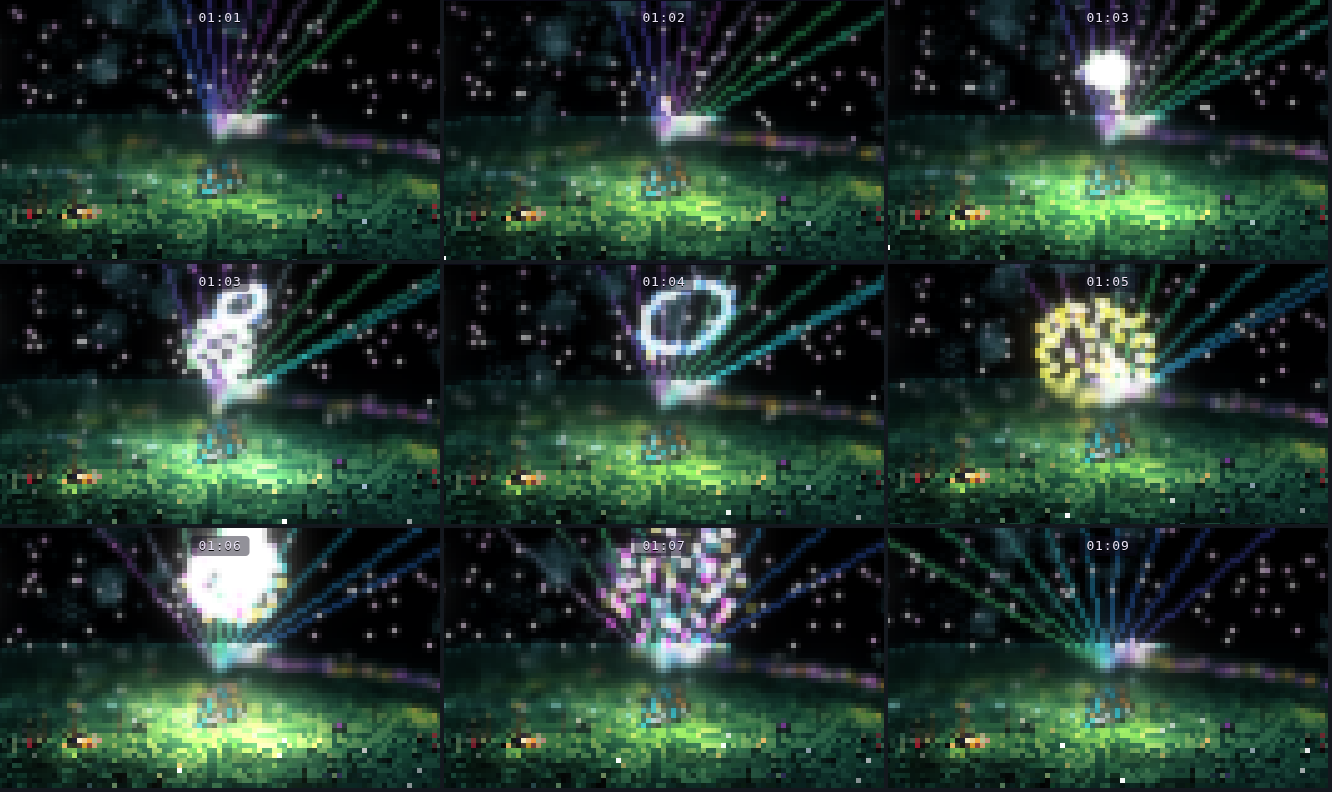
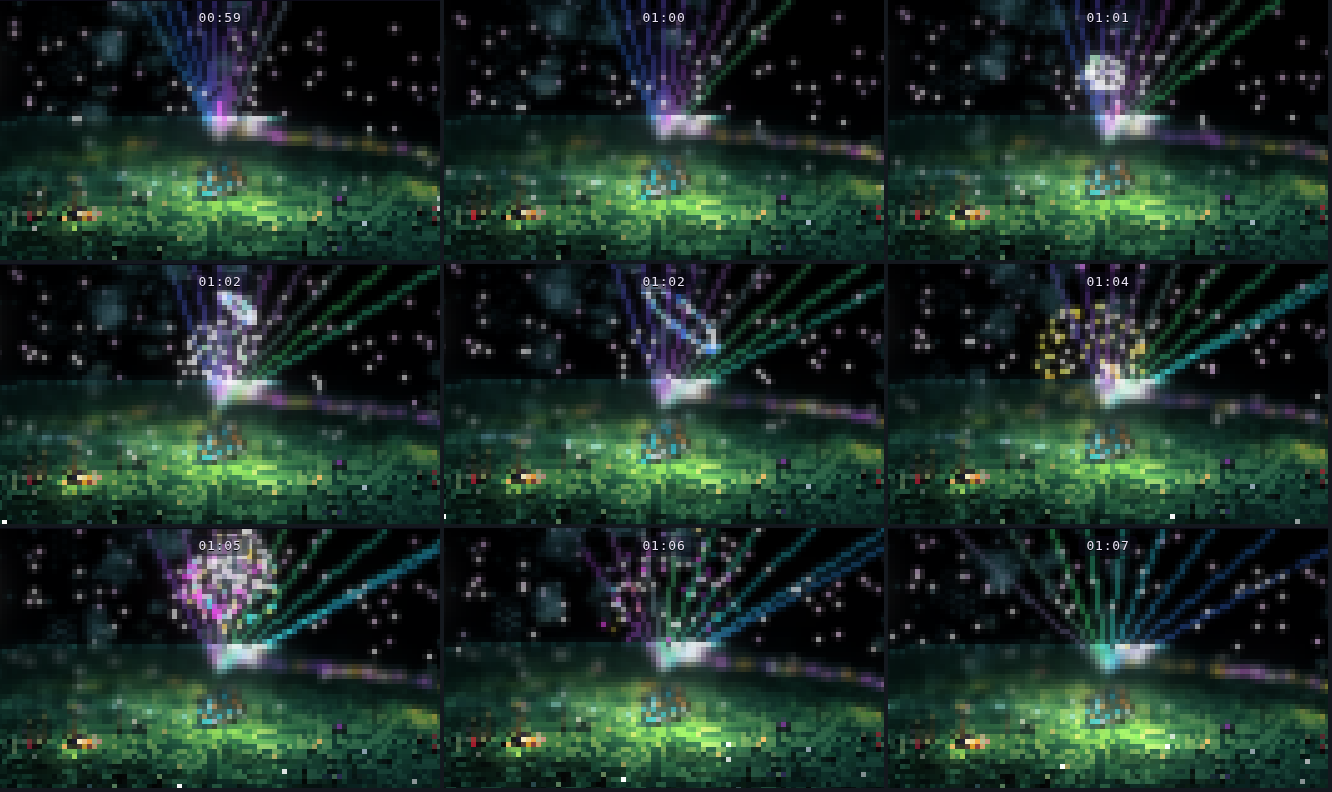
Fireworks: stars one canvas pixel at least (from afar a burst was a solid white disc), a short fade-in at the burst, the finale's a little sparser; ground flashes low; fresh strip; v2137 in the fragment
Claude-Session: https://claude.ai/code/session_01CCJ1G3QaUxYK9jSu9176NM

diff --git a/src/render/fireworks.ts b/src/render/fireworks.ts
@@ -2,7 +2,7 @@
 // rules/fireworks.ts, started by the rules' waveCelebrate). Each shell climbs from the soundsystem's top as a gold spark
 // trailing a few pixels, then bursts: a round peony, a tilted ring, a willow drooping gold, or a crackle of glitter, in the
 // party's neons (some two-colour), each star a short streak of art pixels flashing white, then its colour, fading in steps
-// at the end; seen from far off and from the treetops (never smaller than two screen pixels an art pixel).
+// at the end; seen from far off and from the treetops (never smaller than one of the canvas's pixels).
 // Cheap: a fixed pool on the GPU. A show is written once, when its event comes (every rocket and star with its start, its
 // velocity and its life; the vertex shader flies them, with drag and gravity), and nothing more until the next; a frame
 // does no work and allocates nothing.
@@ -19,7 +19,7 @@ const POOL = 6144, TRAIL = 3, LAG = 0.028;
 /** Where a rocket leaves from (m over the ground: the soundsystem's top). */
 const FROM_Y = 7;
 /** Bursts lighting the ground at once (the latest kept), how long a flash lasts (s), its reach (m) and strength. */
-const FLASHES = 12, FLASH_S = 0.9, FLASH_REACH = 55, FLASH_I = 2.2;
+const FLASHES = 12, FLASH_S = 0.9, FLASH_REACH = 40, FLASH_I = 1.6;
 
 /** The party's neons for a burst (cyan, blue, violet, magenta, pink, gold, green), along a hue 0-1. */
 const NEONS = [[0.3, 1, 1], [0.35, 0.55, 1], [0.7, 0.4, 1], [1, 0.3, 0.9], [1, 0.45, 0.6], [1, 0.82, 0.3], [0.45, 1, 0.5]];
@@ -44,8 +44,9 @@ void main() {
   vec3 p = aFrom.xyz + aVel.xyz * d; p.y -= 0.5 * grav * t * t;
   // Its light: a white flash as it bursts, then its colour; the last third fading in steps; a crackle's glitter flickering.
   vec3 c = aLook.rgb;
-  float a = mode < 0.5 ? 0.8 : 0.8 * (1.0 - floor(max(0.0, k - 0.6) / 0.4 * 3.0) / 3.0);
-  if (mode > 0.5 && k < 0.05) c = mix(mix(c, vec3(1.0), 0.55), c, k / 0.05); // (a touch of white as it bursts: the finale's many together never blow out)
+  float a = mode < 0.5 ? 0.8 : 1.0 * (1.0 - floor(max(0.0, k - 0.6) / 0.4 * 3.0) / 3.0);
+  if (mode > 0.5 && k < 0.05) c = mix(mix(c, vec3(1.0), 0.55), c, k / 0.05); // (a touch of white as it bursts)
+  if (mode > 0.5) { float r = min(1.0, k / 0.04); a *= r; } // (faint while they're all still together at the burst's heart: a shell's stars, added up, never bloom into one white blob)
   if (mode > 2.5 && k > 0.45) a *= step(0.45, fh(floor(uNow * 18.0), aFrom.x * 3.1 + aVel.x * 7.7 + aLag)) * 1.4;
   if (aLag > 0.5) a *= aLag > 1.5 ? 0.35 : 0.6; // (the streak's tail)
   vCol = vec4(c * a, 1.0);
@@ -54,7 +55,7 @@ void main() {
   vec4 c0 = clipOf(g);
   vec3 right = vec3(viewMatrix[0][0], viewMatrix[1][0], viewMatrix[2][0]);
   vec4 c1 = clipOf(g + right * uMpp);
-  gl_PointSize = max(2.0, floor(length((c1.xy / c1.w - c0.xy / c0.w) * 0.5 * uRes) + 0.5)); // (at least two screen pixels: seen from afar)
+  gl_PointSize = max(1.0, floor(length((c1.xy / c1.w - c0.xy / c0.w) * 0.5 * uRes) + 0.5)); // (at least one of the canvas's pixels, px screen pixels across: from afar a burst stays separate stars, not a solid disc)
   gl_Position = c0;
   gl_Position.xy += pixelSnap(c0) * c0.w;
   if (mod(gl_PointSize, 2.0) < 0.5) gl_Position.xy += c0.w / uRes;
@@ -118,7 +119,8 @@ export class Fireworks {
     const rise = s.burst - s.launch, c = this.rgb;
     { const b = this.bursts[this.nextBurst]; this.nextBurst = (this.nextBurst + 1) % FLASHES; neon(s.hue, c); if (s.kind === "willow") { c[0] = 1; c[1] = 0.72; c[2] = 0.3; } b.t = s.burst; b.x = s.x; b.z = s.z; b.rgb.set(c[0], c[1], c[2]); }
     this.put(sx, FROM_Y, sz, s.launch, (s.x - sx) / rise, (s.height - FROM_Y) / rise, (s.z - sz) / rise, rise, 1, 0.8, 0.45, 0);
-    const n = s.kind === "ring" ? 44 : s.kind === "crackle" ? 40 : s.kind === "willow" ? 54 : 64;
+    // (Fewer when the finale's go up together: so many add up to a white blob from afar.)
+    const n = Math.round((s.kind === "ring" ? 40 : s.kind === "crackle" ? 36 : s.kind === "willow" ? 48 : 54) * (s.finale ? 0.8 : 1));
     // A ring lies tilted: its plane's normal.
     const ta = this.rand() * Math.PI * 2, tilt = 0.5 + this.rand() * 0.6, nx = Math.sin(tilt) * Math.cos(ta), ny = Math.cos(tilt), nz = Math.sin(tilt) * Math.sin(ta);
     for (let i = 0; i < n; i++) {
@@ -164,7 +166,7 @@ export class Fireworks {
       const b = this.bursts[i], k = (time - b.t) / FLASH_S;
       if (k < 0 || k >= 1) continue;
       const L = this.lightPool[out.length];
-      L.x = b.x; L.y = 10; L.z = b.z; L.reach = FLASH_REACH; L.rgb.copy(b.rgb); L.strength = FLASH_I * (1 - k) * (1 - k);
+      L.x = b.x; L.y = 2; L.z = b.z; // (low: it lights the ground round the soundsystem, not the haze in the sky) L.reach = FLASH_REACH; L.rgb.copy(b.rgb); L.strength = FLASH_I * (1 - k) * (1 - k);
       out.push(L);
     }
     return out;

diff --git a/src/rules/fireworks.ts b/src/rules/fireworks.ts
@@ -23,6 +23,8 @@ export interface Shell {
   radius: number;
   hue: number;
   hue2: number;
+  /** One of the finale's, going up together at the end. */
+  finale: boolean;
 }
 
 type FireworksTuning = NonNullable<Tuning["fireworks"]>;
@@ -45,7 +47,7 @@ export function fireworkShells(x: number, z: number, at: number, t?: Tuning): Sh
     out.push({
       launch, burst: launch + lerp(F.rise, r(i, 5)), x: x + Math.cos(a) * d, z: z + Math.sin(a) * d, height: lerp(F.height, r(i, 6)) + (finale ? 6 : 0),
       kind, radius: lerp(F.radius, r(i, 7)) * (finale ? 1.25 : 1) * (kind === "willow" ? 1.2 : kind === "crackle" ? 0.8 : 1),
-      hue: r(i, 8), hue2: r(i, 9) < 0.4 ? (r(i, 8) + 0.35 + r(i, 10) * 0.3) % 1 : -1,
+      hue: r(i, 8), hue2: r(i, 9) < 0.4 ? (r(i, 8) + 0.35 + r(i, 10) * 0.3) % 1 : -1, finale,
     });
   }
   return out;
